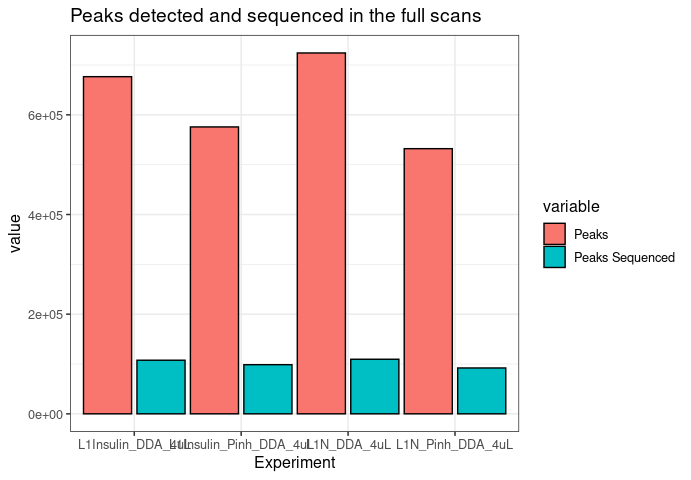
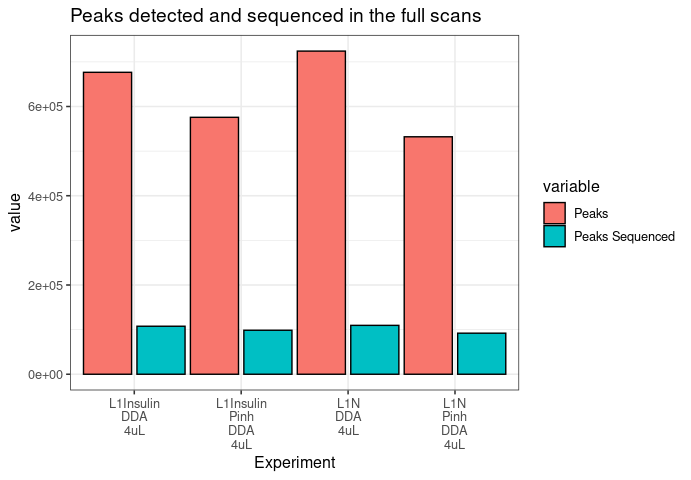
Folder structure completed

diff --git a/README.md b/README.md
@@ -63,19 +63,19 @@ ExperimentInformation(runningTimes, parameters)
 ```
 
 ``` r
-PlotPeaks(summary)
+PlotPeaks(summary, long_names = TRUE, sep_names = '_')
 ```
 
 <img src="man/figures/README-PlotPeaks-1.png" width="100%" />
 
 ``` r
-PlotMsMs(summary)
+PlotMsMs(summary,long_names = TRUE, sep_names = '_')
 ```
 
 <img src="man/figures/README-PlotMSMS-1.png" width="100%" />
 
 ``` r
-PlotIsotopePattern(summary)
+PlotIsotopePattern(summary,long_names = TRUE, sep_names = '_')
 ```
 
 <img src="man/figures/README-isotope-1.png" width="100%" />
@@ -88,7 +88,7 @@ PLotPeptidesIdentified(summary)
 
 ``` r
 
-PlotIntensity(proteinGroups, intensity_type = 'LFQ')
+PlotIntensity(proteinGroups, intensity_type = 'LFQ', log_base = 10, long_names = TRUE, sep_names = '_')
 ```
 
 <img src="man/figures/README-PlotIntensity-1.png" width="100%" />
